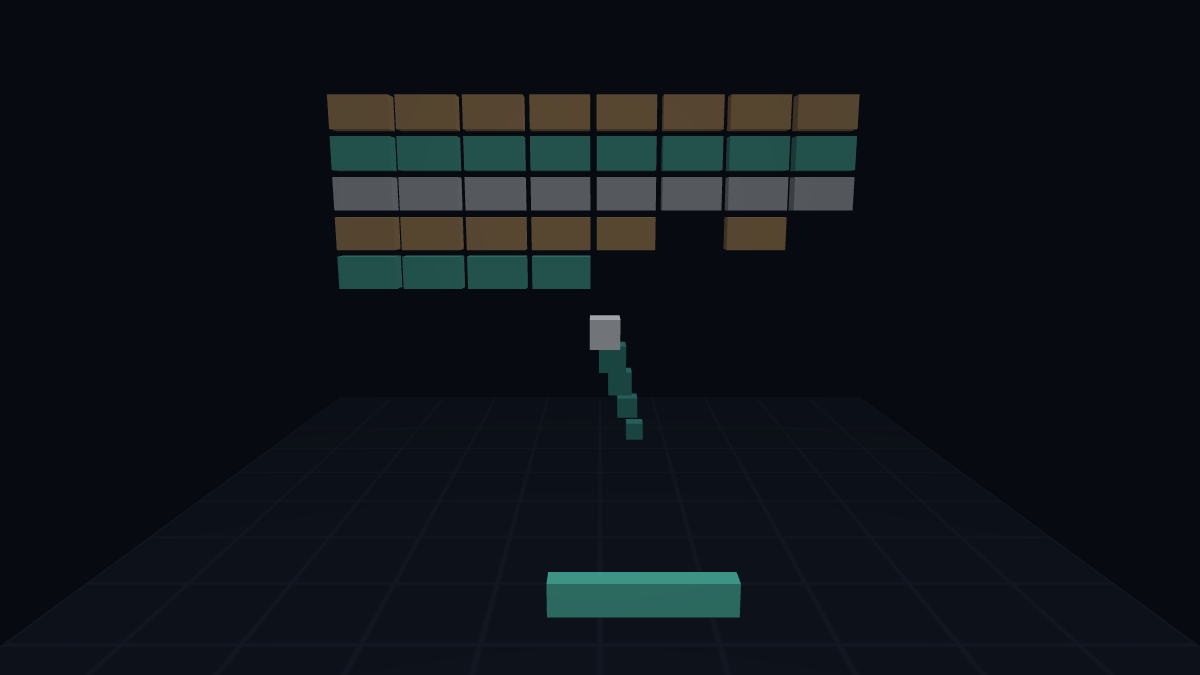
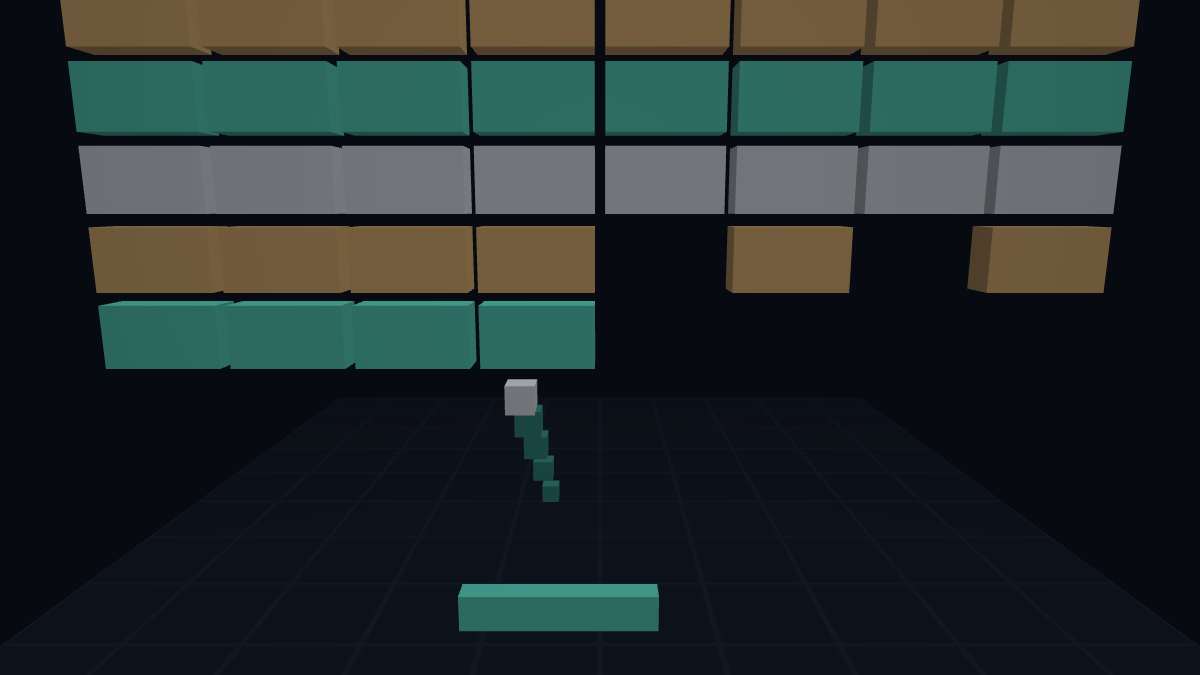
Steer the bounce from the hit point and centre the brick wall
The paddle's exit angle was derived from the incoming angle and then
squeezed by clampAngle's absolute |vx| floor, so the middle of the paddle
had no steering at all and most returns left at the same clamp angle. The
exit angle is now a pure function of the contact offset (16 deg floor at
the centre, 60 deg at the tips), identical for every incoming direction.

clampAngle keeps serving bricks and walls, and gains the symmetric |vy|
floor it was missing - placed before the |vx| early-return, or it would be
dead code for exactly the corner bounces that leave the ball crawling.

The brick wall was laid out from a hardcoded -3.6 with a 1.0 pitch: it
reached 0.05 through the left wall while the rightmost column sat short of
it, and 0.17 of the leftmost brick was outside the ball centre's range.
The pitch is now derived so the wall is centred and both outer faces land
exactly on the ball's reach.

Also: a brick only dies from a bounce that actually happened (clearBrick
moved inside the dot < 0 branch), the separation push is clamped so it
cannot shove the ball through a side wall, the resting ball sits on the
paddle surface instead of 0.05 inside it, and the sub-step comment states
the real worst case.

Render-only: bricks are drawn on the play plane instead of 5.65 units
behind it, so a brick can no longer break where the ball is nowhere near
it; the paddle is moved clear of the ball's depth slab; a lost ball stops
being drawn once it reaches the floor.

diff --git a/src/game.js b/src/game.js
@@ -21,6 +21,7 @@ export const MAX_SPEED = 7.0;
 export const MAX_DT = 0.05;
 export const SUB_DT = 0.02;
 export const MIN_VX = 1.2;
+export const MIN_VY = 0.9;
 export const LOST_Y = 0.2;
 export const LIVES = 3;
 export const SCORE_BRICK = 10;
@@ -39,6 +40,14 @@ export const COLORS = [
 
 const SERVE_DIR = [0.26, 0.966];
 const LOST_TIME = 0.8;
+// The paddle bounce fan. The exit angle comes from the contact offset alone, so
+// the middle of the paddle steers exactly as much as the tips do.
+const PADDLE_MIN_ANGLE = 16 * Math.PI / 180;
+const PADDLE_MAX_ANGLE = 60 * Math.PI / 180;
+// Column pitch that centres the wall and puts both outer brick faces exactly on
+// the limit of where the ball centre can travel, so no brick is out of reach.
+const BRICK_PITCH = (2 * (HALF_W - BALL_R) - BRICK_W) / (BRICK_COLS - 1);
+const X_LIMIT = HALF_W - BALL_R;
 
 const normalize2 = (v) => {
   const len = Math.hypot(v[0], v[1]) || 1;
@@ -54,7 +63,7 @@ export function createGame({ best = 0 } = {}) {
     for (let row = 0; row < BRICK_ROWS; row++) {
       for (let col = 0; col < BRICK_COLS; col++) {
         bricks.push({
-          x: -3.6 + col * 1.0,
+          x: (col - (BRICK_COLS - 1) / 2) * BRICK_PITCH,
           y: 2.6 + row * 0.6,
           w: BRICK_W,
           h: BRICK_H,
@@ -69,7 +78,7 @@ export function createGame({ best = 0 } = {}) {
   const paddleTop = () => PADDLE_Y + PADDLE_H / 2;
 
   const attachBall = () => {
-    state.ball = { x: state.paddleX, y: paddleTop() + BALL_R + 0.05, z: BALL_Z, vx: 0, vy: 0 };
+    state.ball = { x: state.paddleX, y: paddleTop() + BALL_R, z: BALL_Z, vx: 0, vy: 0 };
   };
 
   const bricksLeft = () => state.bricks.reduce((n, b) => n + (b.alive ? 1 : 0), 0);
@@ -106,19 +115,26 @@ export function createGame({ best = 0 } = {}) {
     state.paddleX = Math.max(-limit, Math.min(limit, x));
     if (state.state === 'ready') {
       state.ball.x = state.paddleX;
-      state.ball.y = paddleTop() + BALL_R + 0.05;
+      state.ball.y = paddleTop() + BALL_R;
       state.ball.z = BALL_Z;
     }
   };
 
   const nudgePaddle = (dir, dt) => setPaddle(state.paddleX + dir * PADDLE_SPEED * dt);
 
-  // Arcade guard: after any bounce keep a minimum horizontal component, so the
-  // ball always sweeps across columns instead of stalling in a vertical line.
-  // Speed is preserved; only the angle is clamped.
+  // Arcade guard for brick and wall bounces: keep both components off zero, so
+  // the ball neither stalls in a vertical line nor crawls along a horizontal
+  // one. Speed is preserved; only the angle is clamped. The paddle does not use
+  // this — its exit angle is set outright from the contact offset.
   const clampAngle = () => {
     const ball = state.ball;
     const speed = Math.hypot(ball.vx, ball.vy) || state.speed;
+    // Vertical floor before the horizontal early-return: after it, this branch
+    // would be dead for exactly the bounces that produce a crawling ball.
+    if (Math.abs(ball.vy) < MIN_VY) {
+      ball.vy = (ball.vy >= 0 ? 1 : -1) * MIN_VY;
+      ball.vx = (ball.vx >= 0 ? 1 : -1) * Math.sqrt(Math.max(0, speed * speed - MIN_VY * MIN_VY));
+    }
     if (Math.abs(ball.vx) >= MIN_VX) return;
     const sign = ball.vx !== 0 ? Math.sign(ball.vx) : (ball.x >= 0 ? 1 : -1);
     ball.vx = sign * MIN_VX;
@@ -146,8 +162,8 @@ export function createGame({ best = 0 } = {}) {
     ball.x += ball.vx * dt;
     ball.y += ball.vy * dt;
 
-    if (ball.x < -(HALF_W - BALL_R)) { ball.x = -(HALF_W - BALL_R); ball.vx = Math.abs(ball.vx); }
-    else if (ball.x > HALF_W - BALL_R) { ball.x = HALF_W - BALL_R; ball.vx = -Math.abs(ball.vx); }
+    if (ball.x < -X_LIMIT) { ball.x = -X_LIMIT; ball.vx = Math.abs(ball.vx); }
+    else if (ball.x > X_LIMIT) { ball.x = X_LIMIT; ball.vx = -Math.abs(ball.vx); }
     if (ball.y > CEILING - BALL_R) { ball.y = CEILING - BALL_R; ball.vy = -Math.abs(ball.vy); }
 
     // Brick collision: exact circle-vs-rect contact, reflected about the
@@ -182,13 +198,15 @@ export function createGame({ best = 0 } = {}) {
       }
       ball.x += ux * push;
       ball.y += uy * push;
+      ball.x = Math.max(-X_LIMIT, Math.min(X_LIMIT, ball.x)); // separation must not push through a wall
       const dot = ball.vx * ux + ball.vy * uy;
+      // No bounce, no kill: a ball already leaving the brick only gets pushed out.
       if (dot < 0) {
         ball.vx -= 2 * dot * ux;
         ball.vy -= 2 * dot * uy;
+        clampAngle();
+        if (clearBrick(brick)) return;
       }
-      clampAngle();
-      if (clearBrick(brick)) return;
     }
 
     // Paddle: only a descending ball arriving from above the paddle top, inside
@@ -198,14 +216,12 @@ export function createGame({ best = 0 } = {}) {
       && ball.y <= paddleTop() + BALL_R
       && ball.y >= paddleTop()
       && Math.abs(ball.x - state.paddleX) <= PADDLE_HALF + BALL_R) {
-      const offset = (ball.x - state.paddleX) / PADDLE_HALF;
+      const offset = Math.max(-1, Math.min(1, (ball.x - state.paddleX) / PADDLE_HALF));
       ball.y = paddleTop() + BALL_R;
-      ball.vy = Math.abs(ball.vy);
-      ball.vx = Math.max(-1, Math.min(1, offset)) * 3.2;
-      const dir = normalize2([ball.vx, ball.vy]);
-      ball.vx = dir[0] * state.speed;
-      ball.vy = dir[1] * state.speed;
-      clampAngle();
+      const side = offset < 0 ? -1 : 1; // dead centre is a fixed tie-break, not a coin flip
+      const angle = side * Math.max(PADDLE_MIN_ANGLE, Math.abs(offset) * PADDLE_MAX_ANGLE);
+      ball.vx = Math.sin(angle) * state.speed;
+      ball.vy = Math.cos(angle) * state.speed;
       return;
     }
 
@@ -244,6 +260,8 @@ export function createGame({ best = 0 } = {}) {
     }
     // Adaptive sub-stepping: never advance more than half a ball radius per
     // step, so fast balls cannot skip a brick face or a paddle catch window.
+    // The 16 is only a safety belt — the worst legal frame (MAX_DT at
+    // MAX_SPEED) needs 6 sub-steps, so the cap never binds in play.
     const speed = Math.hypot(state.ball.vx, state.ball.vy);
     const n = Math.min(16, Math.max(1, Math.ceil((d * speed) / (BALL_R * 0.5))));
     const sub = d / n;

diff --git a/src/main.js b/src/main.js
@@ -1,6 +1,6 @@
 // DOM wiring: canvas, pointer/keyboard input, HUD, and the
 // ?autotest=1 / ?shot=1 / ?nogl=1 modes. The camera lives in camera.js.
-import { createGame, BALL_R, BRICK_D, COLORS, HALF_W, PADDLE_H, PADDLE_HALF, PADDLE_Y, PADDLE_Z } from './game.js';
+import { createGame, BALL_R, BALL_Z, BRICK_D, COLORS, HALF_W, PADDLE_H, PADDLE_HALF, PADDLE_Y, PADDLE_Z } from './game.js';
 import { createRenderer } from './gl.js';
 import { EYE, viewProjection } from './camera.js';
 import { getStorage, readBest, writeBest } from './storage.js';
@@ -10,6 +10,7 @@ import { playEndOver, playMiss, playTracking } from './autotest.js';
 const BG = new Float32Array([0.027, 0.039, 0.063]);
 const FLOOR = new Float32Array([0.07, 0.09, 0.13]);
 const TRAIL = new Float32Array([0.2, 0.55, 0.5]);
+const PADDLE_D = 0.2;
 const params = new URLSearchParams(location.search);
 const body = document.body;
 const setStatus = (key, value) => body.setAttribute(`data-${key}`, String(value));
@@ -98,11 +99,15 @@ function start(renderer) {
     renderer.clear();
     renderer.drawCube(0, -0.02, 2.5, 10, 0.04, 9, FLOOR, 1);
     for (const brick of view.bricks) {
-      if (brick.alive) renderer.drawCube(brick.x, brick.y, BRICK_D / 2, brick.w, brick.h, BRICK_D, COLORS[brick.c]);
+      // On the play plane, not 5.65 units behind it: a brick may only break
+      // where the ball is seen to touch it.
+      if (brick.alive) renderer.drawCube(brick.x, brick.y, BALL_Z, brick.w, brick.h, BRICK_D, COLORS[brick.c]);
     }
-    renderer.drawCube(view.paddleX, PADDLE_Y, PADDLE_Z - 0.1, PADDLE_HALF * 2, PADDLE_H, 0.2, COLORS[0]);
+    // In front of the ball's depth slab, so paddle and ball never interpenetrate.
+    renderer.drawCube(view.paddleX, PADDLE_Y, PADDLE_Z + PADDLE_D / 2, PADDLE_HALF * 2, PADDLE_H, PADDLE_D, COLORS[0]);
     const ball = view.ball;
-    if (ball) {
+    // A lost ball stops being drawn at the floor instead of sinking through it.
+    if (ball && ball.y >= 0) {
       for (let i = 1; i < trail.length; i++) {
         const s = BALL_R * 2 * (1 - i / 9);
         renderer.drawCube(trail[i].x, trail[i].y, trail[i].z, s, s, s, TRAIL);
